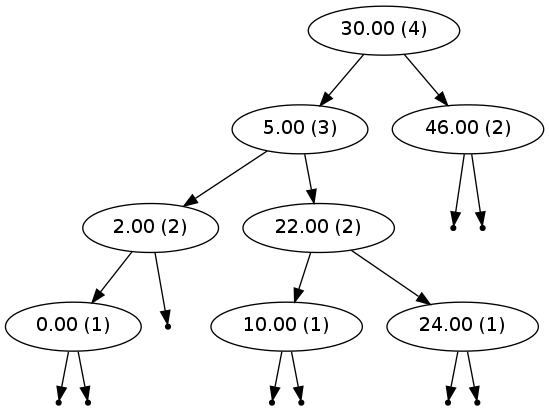
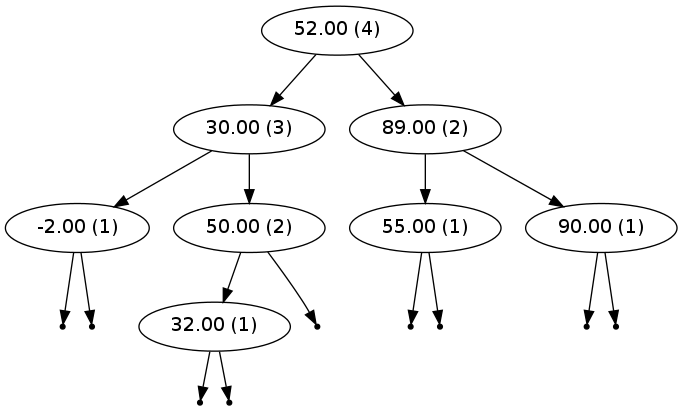
Got the AVL trees. Next: Use them for Voronoi!

diff --git a/AVL_Trees/avl.cpp b/AVL_Trees/avl.cpp
@@ -36,8 +36,16 @@ struct AVL {
 	Node* root;									///< Root of the tree
 	FILE* graphFile;
 
-	// Basic utilities
-  Node* search (const X& x); 	
+ 	/* ****************************************************************************************** */
+	Node* search (const X& x) { return search(x, root); }
+
+ 	/* ****************************************************************************************** */
+  Node* search (const X& x, Node* curr) {
+		if(curr->left != NULL && comp(x, curr->value)) return search(x, curr->left); 
+		else if(curr->right != NULL && comp(curr->value, x)) return search(x, curr->right); 
+		else if(!comp(curr->value, x) && !comp(x, curr->value)) return curr;
+		else return NULL;
+	}
 
  	/* ****************************************************************************************** */
 	void draw () { 
@@ -155,6 +163,10 @@ struct AVL {
 		int counter = 0;
 		while(curr != NULL) {
 			if(counter++ > 10) break;
+
+			// Update the height
+			curr->height = max(curr->left ? curr->left->height : 0, 
+				curr->right ? curr->right->height : 0) + 1;
 
 			// Look at the left rotations (current balance is +2)
 			int currBalance = (curr->right ? curr->right->height : 0) -
@@ -342,10 +354,14 @@ struct AVL {
 
 				// Set the successor at the current location
 				if(curr->parent) {
+					if(succ->parent) {
+						if(succ->parent->left == succ) succ->parent->left = NULL;
+						else succ->parent->right = NULL;
+					}
 					connect(succ, curr->parent, (curr->parent->left == curr));
 					connect(curr->left, succ, true);
 					if(succ != curr->right) connect(curr->right, succ, false);
-					return curr->parent;
+					return succ;
 				}
 				else {
 					root = succ;
@@ -385,9 +401,6 @@ int main () {
 		double x;
 		char c;
 		printf("New operation: \n");
-		//int res = scanf("%c %lf", &c, &x);
-		//printf("Scanf result: %d\n", res);
-		//if(res != 2) continue;
 		cin >> c;
 		cin >> x;
 		if(c == 'i') {

diff --git a/README.md b/README.md
@@ -70,6 +70,7 @@ __Data structure:__
  - Queue
 
 __Search:__
+ - __AVL Trees__
  - Binary search
  - Re-balancing trees
  - Tree traversals
